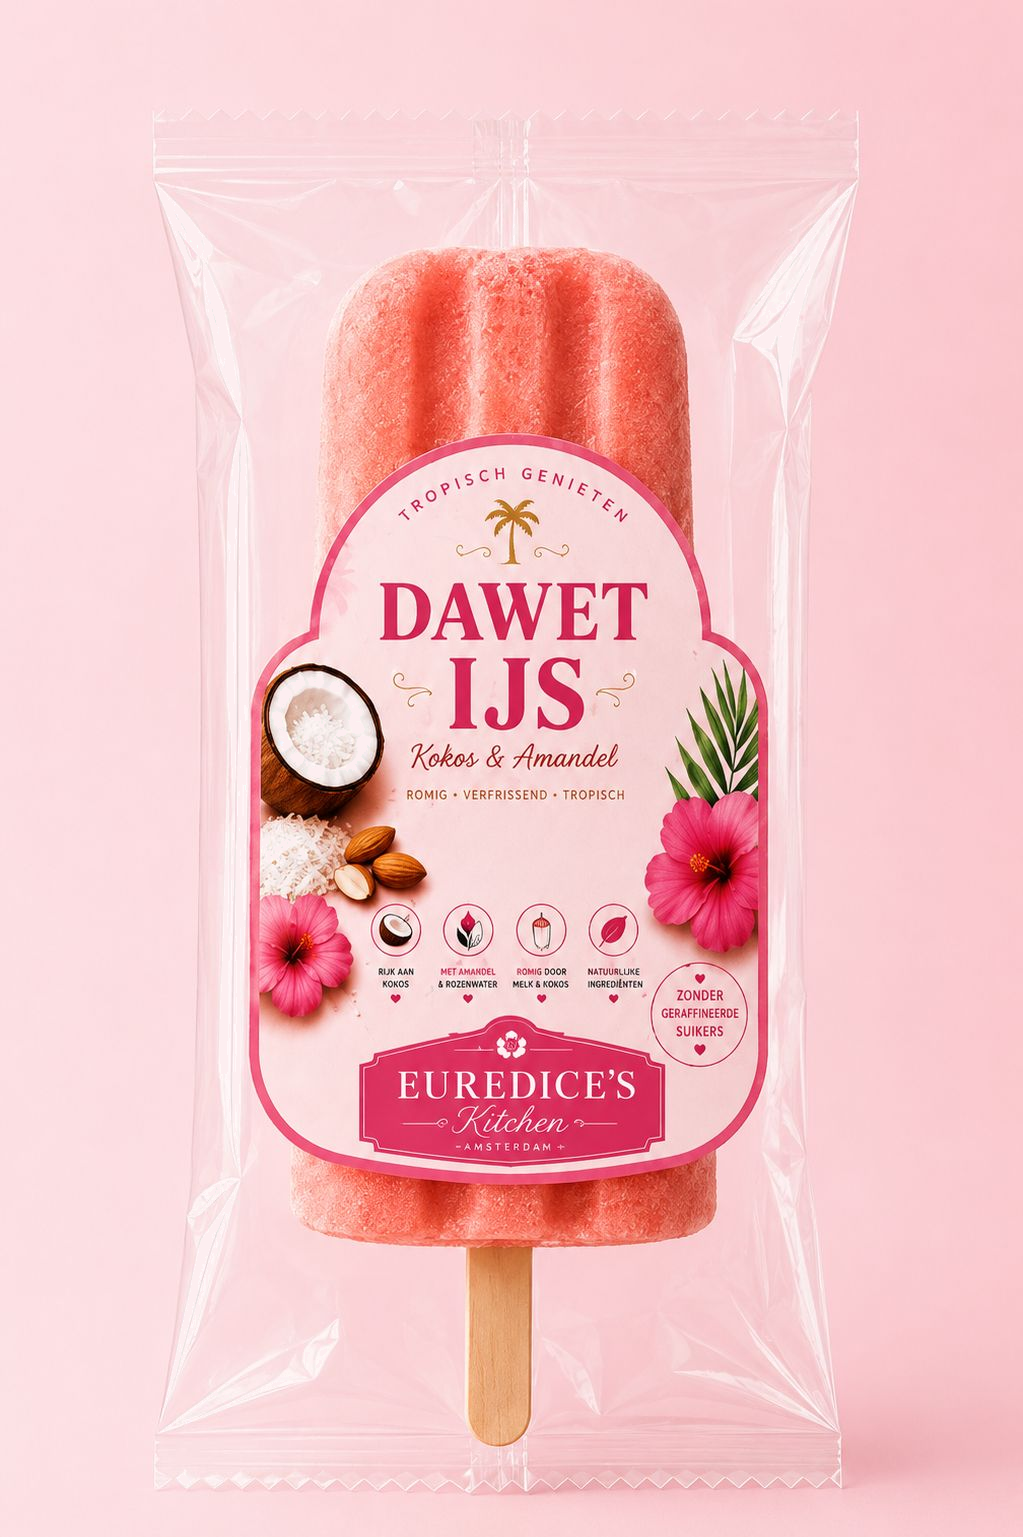
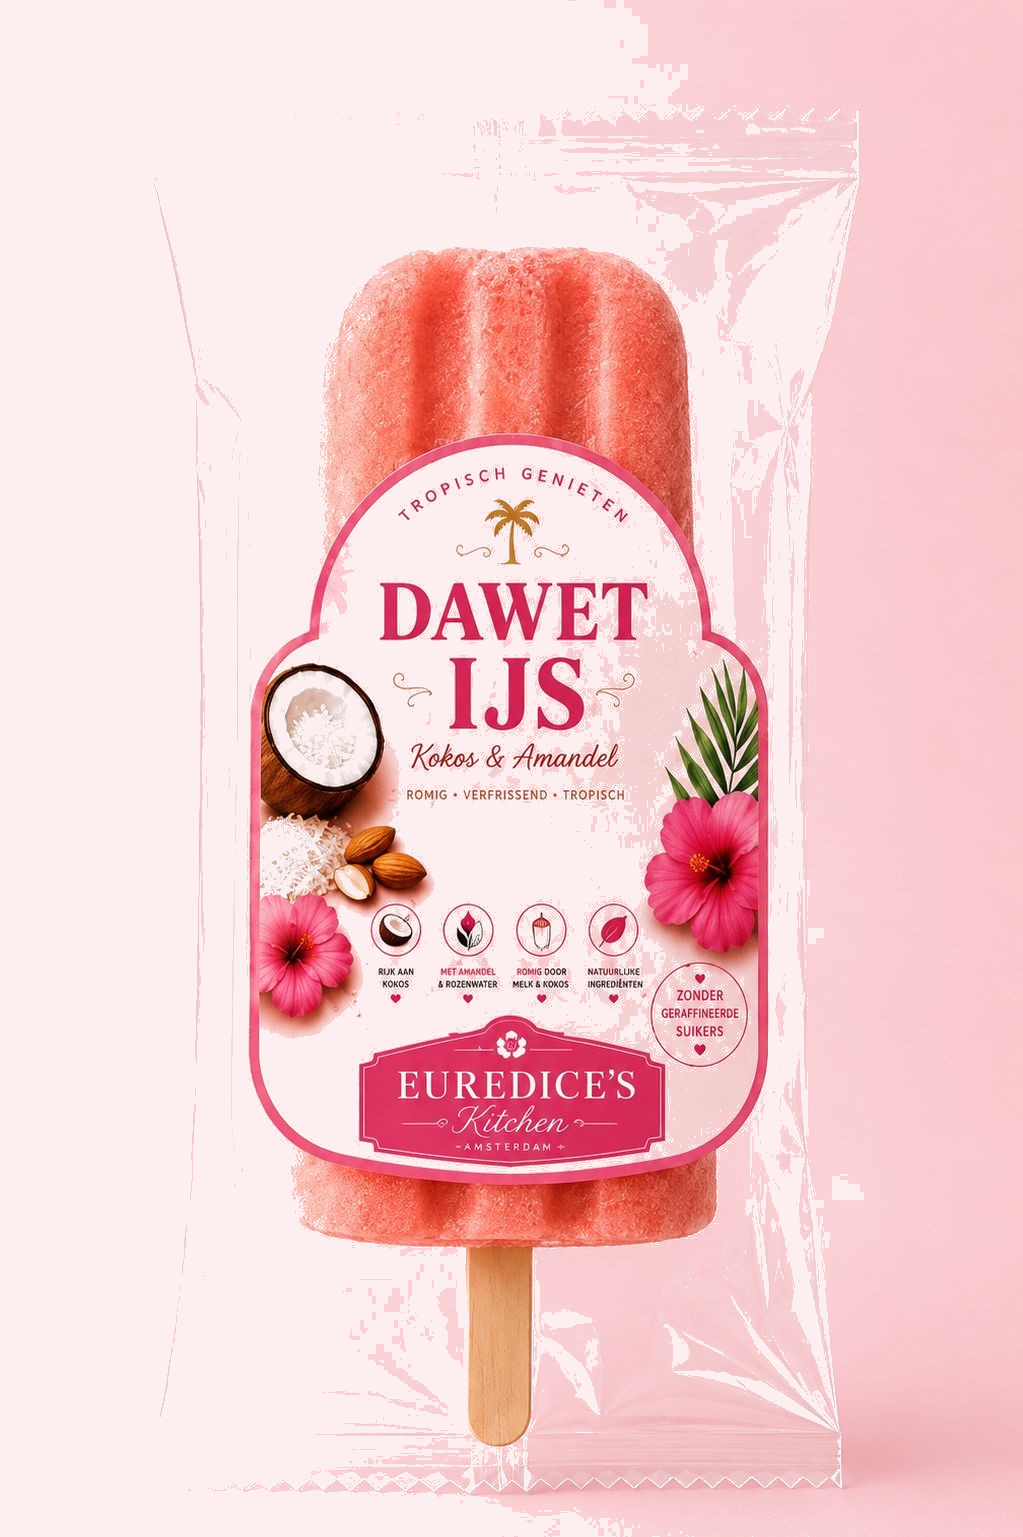
Blend hero product image with page background pink

diff --git a/css/styles.css b/css/styles.css
@@ -242,8 +242,7 @@ a:hover {
   padding: 3rem 0 4rem;
   overflow: hidden;
   background:
-    radial-gradient(ellipse 80% 60% at 90% 20%, rgba(233, 30, 99, 0.12), transparent),
-    radial-gradient(ellipse 60% 50% at 10% 80%, rgba(176, 137, 71, 0.1), transparent),
+    radial-gradient(ellipse 55% 45% at 12% 85%, rgba(176, 137, 71, 0.08), transparent),
     var(--pink-paper);
 }
 
@@ -397,9 +396,10 @@ a:hover {
   position: relative;
   display: flex;
   justify-content: center;
+  background: var(--pink-paper);
 }
 
-/* Hero — productfoto verpakking (transparante PNG) */
+/* Hero — productfoto (achtergrond = pagina-roze) */
 .hero-product {
   position: relative;
   width: min(100%, 420px);
@@ -407,29 +407,17 @@ a:hover {
   display: flex;
   justify-content: center;
   align-items: center;
+  background: var(--pink-paper);
 }
 
-.hero-product::before {
-  content: "";
-  position: absolute;
-  inset: 8% 5% 0;
-  background: radial-gradient(
-    ellipse 85% 75% at 50% 42%,
-    rgba(253, 238, 240, 0.4) 0%,
-    transparent 70%
-  );
-  z-index: 0;
-  pointer-events: none;
-}
-
-.hero-product picture,
 .hero-product__img {
   position: relative;
   z-index: 1;
   width: 100%;
   height: auto;
   object-fit: contain;
-  filter: drop-shadow(0 16px 32px rgba(74, 37, 48, 0.22));
+  display: block;
+  filter: drop-shadow(0 10px 20px rgba(74, 37, 48, 0.14));
 }
 
 /* Legacy showcase (unused) */